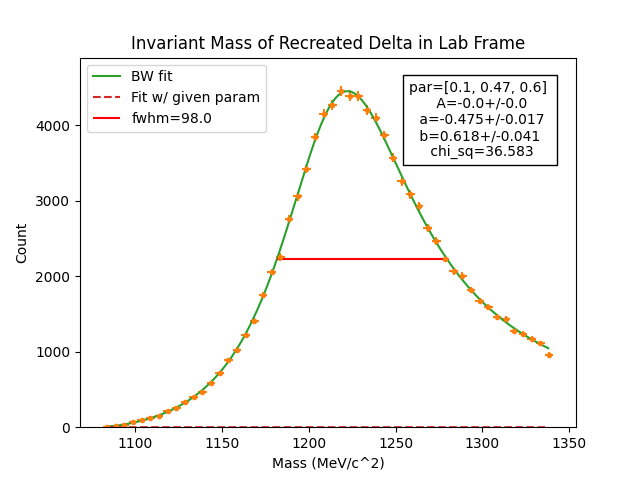
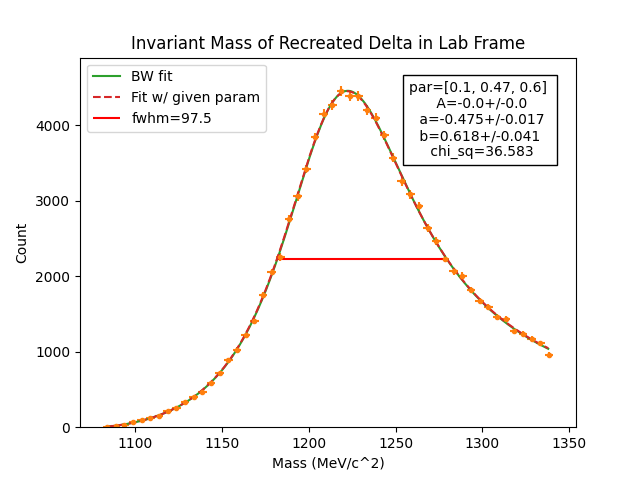
code

diff --git a/param_test/BW_reader.py b/param_test/BW_reader.py
@@ -295,12 +295,13 @@ def reader(directory,file_pattern,output_folder):
     yfit_par=bw_func(xfitbw,*param)
     print(*param)
     popt,pcov=curve_fit(bw_func,bins_cntr,hist,p0=[*param],sigma=hist_err,absolute_sigma=True)
+    print(popt)
     eA=np.sqrt(pcov[0,0])
     ea=np.sqrt(pcov[1,1])
     eb=np.sqrt(pcov[2,2])
     chi_sq=chi2(bins_cntr,hist,hist_err,*popt)
     yfitbw=bw_func(xfitbw,*popt)
-    yfitbw=np.multiply(yfit_par,sclr)
+    yfit_par=np.multiply(yfit_par,sclr)
     fwhm,hlf_val,lft,rgt,mxi=fwhm_calc(yfitbw,xfitbw)
     plt.plot(xfitbw,yfitbw,label='BW fit')
     plt.plot(xfitbw,yfit_par,'--',label='Fit w/ given param')
@@ -313,7 +314,7 @@ def reader(directory,file_pattern,output_folder):
     plt.figtext(0.75,0.75,"par=%s \n A=%s+/-%s\n a=%s+/-%s\n b=%s+/-%s \n chi_sq=%s"%(param,round(popt[0],3),round(eA,3),round(popt[1],3), round(ea,3),round(popt[2],3),round(eb,3),round(chi_sq,3)),horizontalalignment='center',verticalalignment='center',bbox=dict(facecolor='none',edgecolor='black'))
     plot_file_path = os.path.join(output_folder, f"{os.path.splitext(os.path.basename(filename))[0]}_IM_plot.png")
     plt.savefig(plot_file_path)
-    #plt.show()
+    plt.show()
     plt.close()
     print("total number of counted particles after momentum cut:", np.sum(hist))
     quit()
